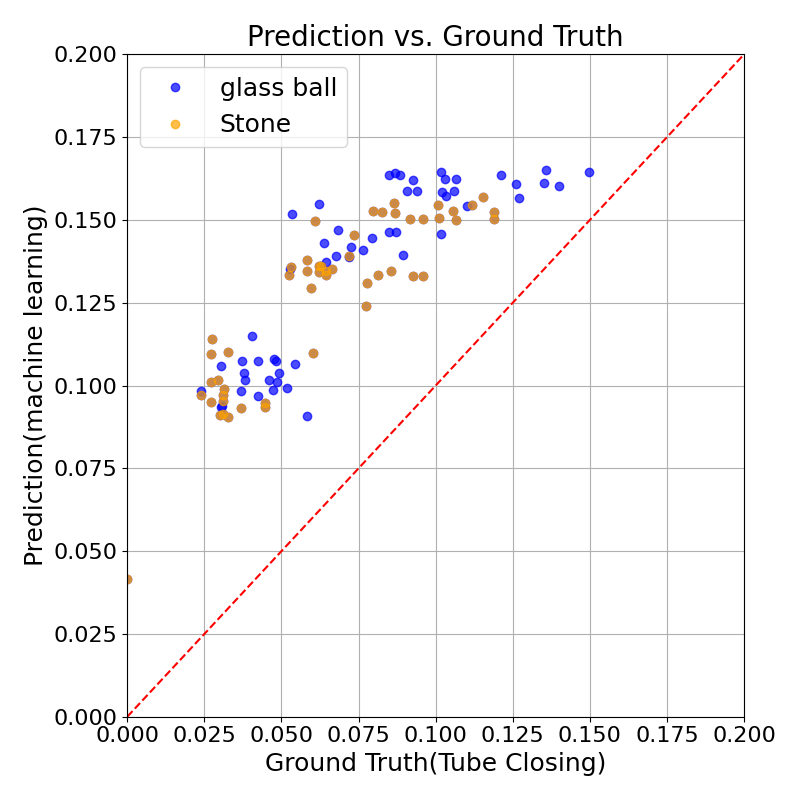
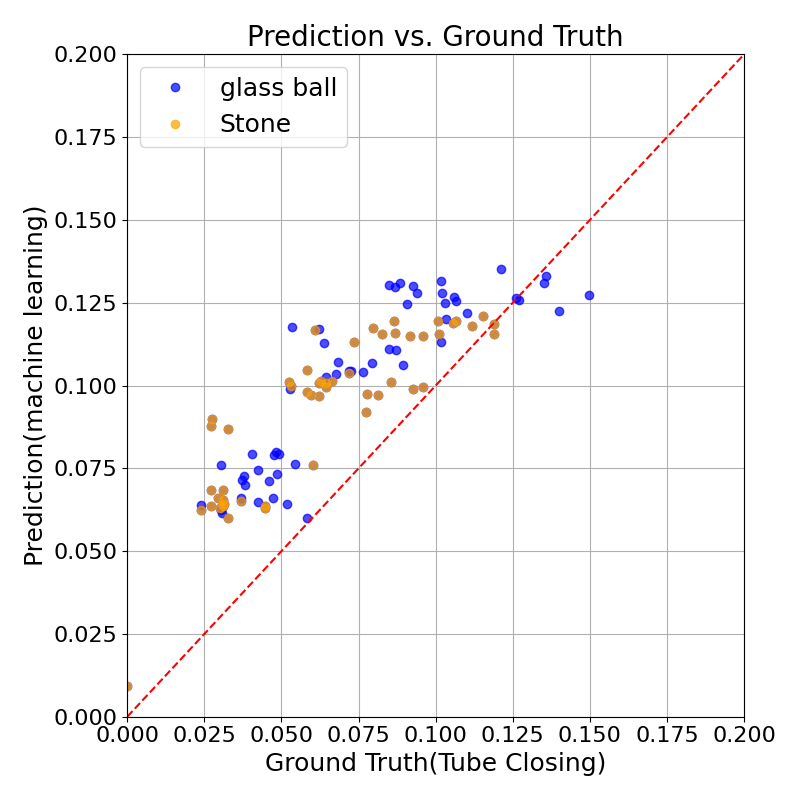
commit

diff --git a/src/utils.py b/src/utils.py
@@ -132,7 +132,7 @@ def preprocess(path, device="cuda:0", filter_freq=[0, 1.0e9],
     from scipy import signal
     x_tmp = x_test.copy()
     x_tmp_for_fft = x_test.copy()
-    import pywt
+    # import pywt
 
     # x_tmp = x_tmp - np.mean(x_tmp, axis=1)[:,np.newaxis]
     # def maddest(d, axis=None):
@@ -148,6 +148,8 @@ def preprocess(path, device="cuda:0", filter_freq=[0, 1.0e9],
     #     coeff[1:] = (pywt.threshold(i, value=uthresh, mode='hard') for i in coeff[1:])
     #     return pywt.waverec(coeff, wavelet, mode='per',axis=1)
     # x_test_filterd = denoise(x_tmp)
+
+    x_tmp = x_tmp[:,208:2708]
 
     x_test_filterd=filter_signal(filter_freq, x_tmp, fs)
     x_test = x_test_filterd.copy()
@@ -168,9 +170,9 @@ def preprocess(path, device="cuda:0", filter_freq=[0, 1.0e9],
     argmax_pipe_ref2 = np.argmax(x_test[1000,:])
     # x_test = x_test[:,argmax_pipe_ref2-170:argmax_pipe_ref2+2330]
     # raw_tmp = raw_tmp[:,argmax_pipe_ref2-170:argmax_pipe_ref2+2330]
-    x_test = x_test[:,208:2708]
-    raw_tmp = raw_tmp[:,208:2708]
-    print(f'argmax {argmax_pipe_ref2}')
+    # x_test = x_test[:,208:2708]
+    # raw_tmp = raw_tmp[:,208:2708]
+    # print(f'argmax {argmax_pipe_ref2}')
     pulse_num = x_test.shape[0]
     x_test_tensor = torch.from_numpy(x_test).float()
 
@@ -338,10 +340,10 @@ def  rolling_window_signal(rolling_window, window_size=30, x_test=None):
     if rolling_window:
         s =pl.from_numpy(np.transpose(x_test))
 
-        # s = s.select(pl.all().rolling_mean(
-        #     window_size=window_size//3,
-        #     min_periods=1
-        # ))
+        s = s.select(pl.all().rolling_mean(
+            window_size=window_size//3,
+            min_periods=1
+        ))
         s = s.select(pl.all().rolling_min(
             window_size=window_size,
             min_periods=1
